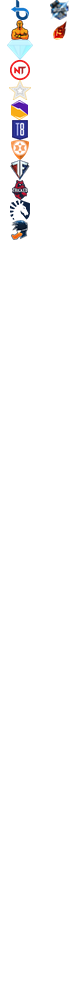
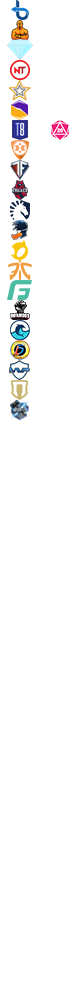
Add HGC Flairs
Add the green check verification

diff --git a/user_flair/esports_flair.scss b/user_flair/esports_flair.scss
@@ -30,6 +30,10 @@
   background-position: 0 -120px;
 }
 
+.flair-e-roll20::before {
+  background-position: 40px -120px;
+}
+
 .flair-e-team-expert::before {
   background-position: 0 -140px;
 }
@@ -50,10 +54,38 @@
   background-position: 0 -220px;
 }
 
-.flair-e-mighty::before {
-  background-position: 40px 0;
+.flair-e-dignitas::before {
+  background-position: 0 -240px;
+}
+
+.flair-e-fnatic::before {
+  background-position: 0 -260px;
+}
+
+.flair-e-gale-force::before {
+  background-position: 0 -280px;
+}
+
+.flair-e-infamous::before {
+  background-position: 0 -300px;
+}
+
+.flair-e-nomia::before {
+  background-position: 0 -320px;
 }
 
 .flair-e-l5::before {
-  background-position: 40px -20px;
+  background-position: 0 -340px;
+}
+
+.flair-e-mvp::before {
+  background-position: 0 -360px;
+}
+
+.flair-e-naventic::before {
+  background-position: 0 -380px;
+}
+
+.flair-e-mighty::before {
+  background-position: 0 -400px;
 }

diff --git a/user_flair/user_flair.scss b/user_flair/user_flair.scss
@@ -72,3 +72,7 @@
 .flairselector form .flairselection:before {
   padding-bottom: 20px
 }
+
+.flair-verified::before {
+  background: url(%%green-check%%);
+}
